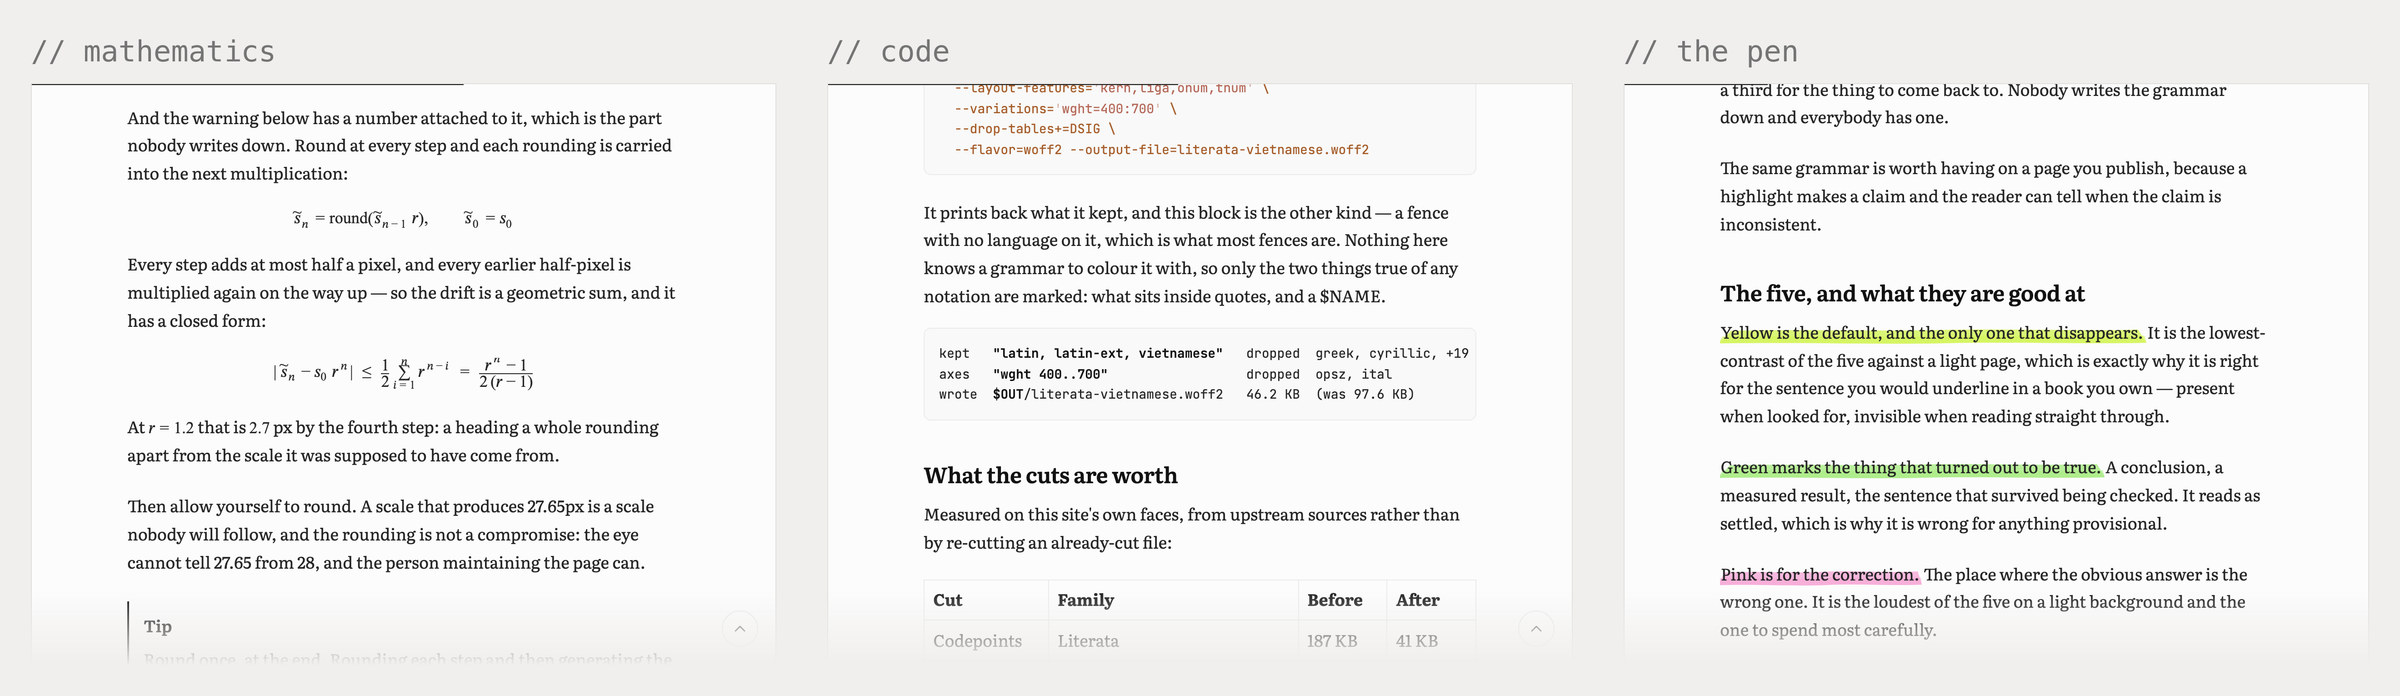
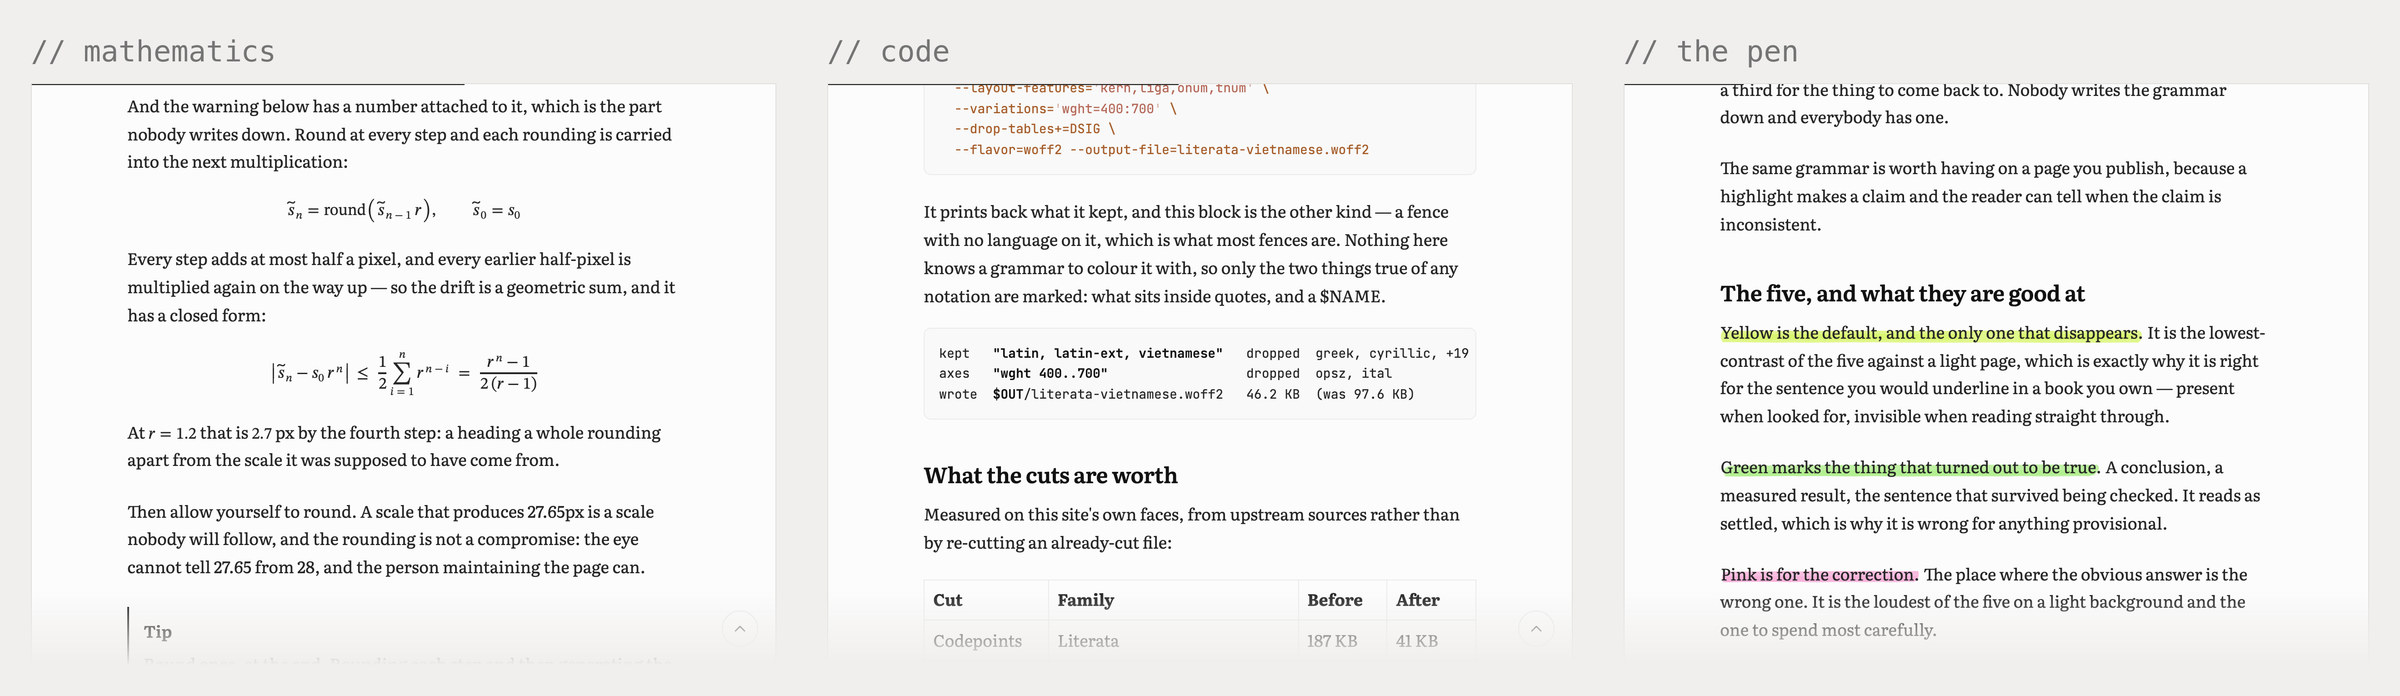
The five README plates reshoot on the 2.1.1 fixture
Same command as always (scripts/ops/shoot-readme.sh, driven with full
headless Chrome this time). The post panels now show the pen's three
gestures above the fold, the editor panel carries the ring button, and
the alt texts say what the pictures now show.

diff --git a/README.vi.md b/README.vi.md
@@ -22,7 +22,7 @@ Một tiến trình. Hai tệp SQLite. Không tài khoản đám mây nào trong
 
 <br/>
 
-<img src="docs/demo.jpg" alt="Hai ảnh chụp cạnh nhau: trang chủ dạng báo với bài dẫn và các hàng chuyên mục, và trang bài viết của cùng site với cột mục lục bên trái, cột thông tin bên phải và bức thư tay Van Gogh làm hình đầu bài" width="960">
+<img src="docs/demo.jpg" alt="Hai ảnh chụp cạnh nhau: trang chủ dạng báo với bài dẫn và các hàng chuyên mục, và trang bài viết của cùng site với cột mục lục bên trái, cột thông tin bên phải, một câu gạch dưới bút chì, một chữ khoanh bút bi đỏ, một câu tô xanh và bức thư tay Van Gogh làm hình đầu bài" width="960">
 
 <sub>**[demo.quireink.com](https://demo.quireink.com)** là bản thật, chạy được. Không đăng ký, không phải điền gì. Dùng thanh dưới đáy để nhảy qua lại giữa trang chủ dạng báo, danh sách bài, một bài viết, chế độ sách, sáng và tối, và trang quản trị. Thanh đó là thứ duy nhất được thêm vào, và nó nằm ngoài mã nguồn, nên trang demo luôn là bản mới nhất.</sub>
 
@@ -171,7 +171,7 @@ Nó giữ được như vậy nhờ vài quyết định khó đảo ngược.
 
 <div align="center">
 
-<img src="docs/demo-admin.jpg" alt="Trang quản trị Quire Ink: trình soạn bài với câu được tô sáng và bức thư tay trong bài, và trang cấu hình giao diện với sáu bảng màu và bốn font đọc" width="960">
+<img src="docs/demo-admin.jpg" alt="Trang quản trị Quire Ink: trình soạn bài với nút gạch dưới và khoanh tròn trên thanh công cụ, câu gạch chì, chữ khoanh đỏ, câu tô sáng và bức thư tay trong bài; bên cạnh là trang cấu hình giao diện với sáu bảng màu và bốn font đọc" width="960">
 
 <sub>Bảng màu, font, cỡ chữ, bố cục, menu. Tất cả đều là tuỳ chọn, không có cái nào là code.</sub>
 

diff --git a/README.md b/README.md
@@ -22,7 +22,7 @@ One process. Two SQLite files. No cloud account anywhere in the path.
 
 <br/>
 
-<img src="docs/demo.jpg" alt="Two screenshots side by side: a composed front page with a lead story and section rows, and the same site's article page with a contents rail, a meta column, and a scanned Van Gogh letter as its first figure" width="960">
+<img src="docs/demo.jpg" alt="Two screenshots side by side: a composed front page with a lead story and section rows, and the same site's article page with a contents rail, a meta column, a pencil underline, a red ballpoint ring around one word, a blue highlight, and a scanned Van Gogh letter as its first figure" width="960">
 
 <sub>**[demo.quireink.com](https://demo.quireink.com)** is the real thing. No sign-up, nothing to fill in. Use the bar at the bottom to jump between the front page, the list, an article, book mode, light and dark, and the admin. That bar is the only thing added, and it lives outside the code, so the demo is always the latest build.</sub>
 
@@ -172,7 +172,7 @@ It stays this way because of a few decisions that are hard to walk back.
 
 <div align="center">
 
-<img src="docs/demo-admin.jpg" alt="The Quire Ink admin: the Write screen with the list of everything written beside the editor's paper — a toolbar, a highlighted sentence and a scanned letter in the post — and the appearance settings as one sheet of panels with six colour palettes and four reading fonts" width="960">
+<img src="docs/demo-admin.jpg" alt="The Quire Ink admin: the Write screen with the list of everything written beside the editor's paper — a toolbar with underline and ring buttons, a pencil underline, a ringed word and a highlighted sentence in the post — and the appearance settings as one sheet of panels with six colour palettes and four reading fonts" width="960">
 
 <sub>The admin is built around writing: the list beside the paper, and everything else one sheet per page. Palettes, fonts, sizes, layout, menu — all of it is a setting, none of it is code.</sub>
 
